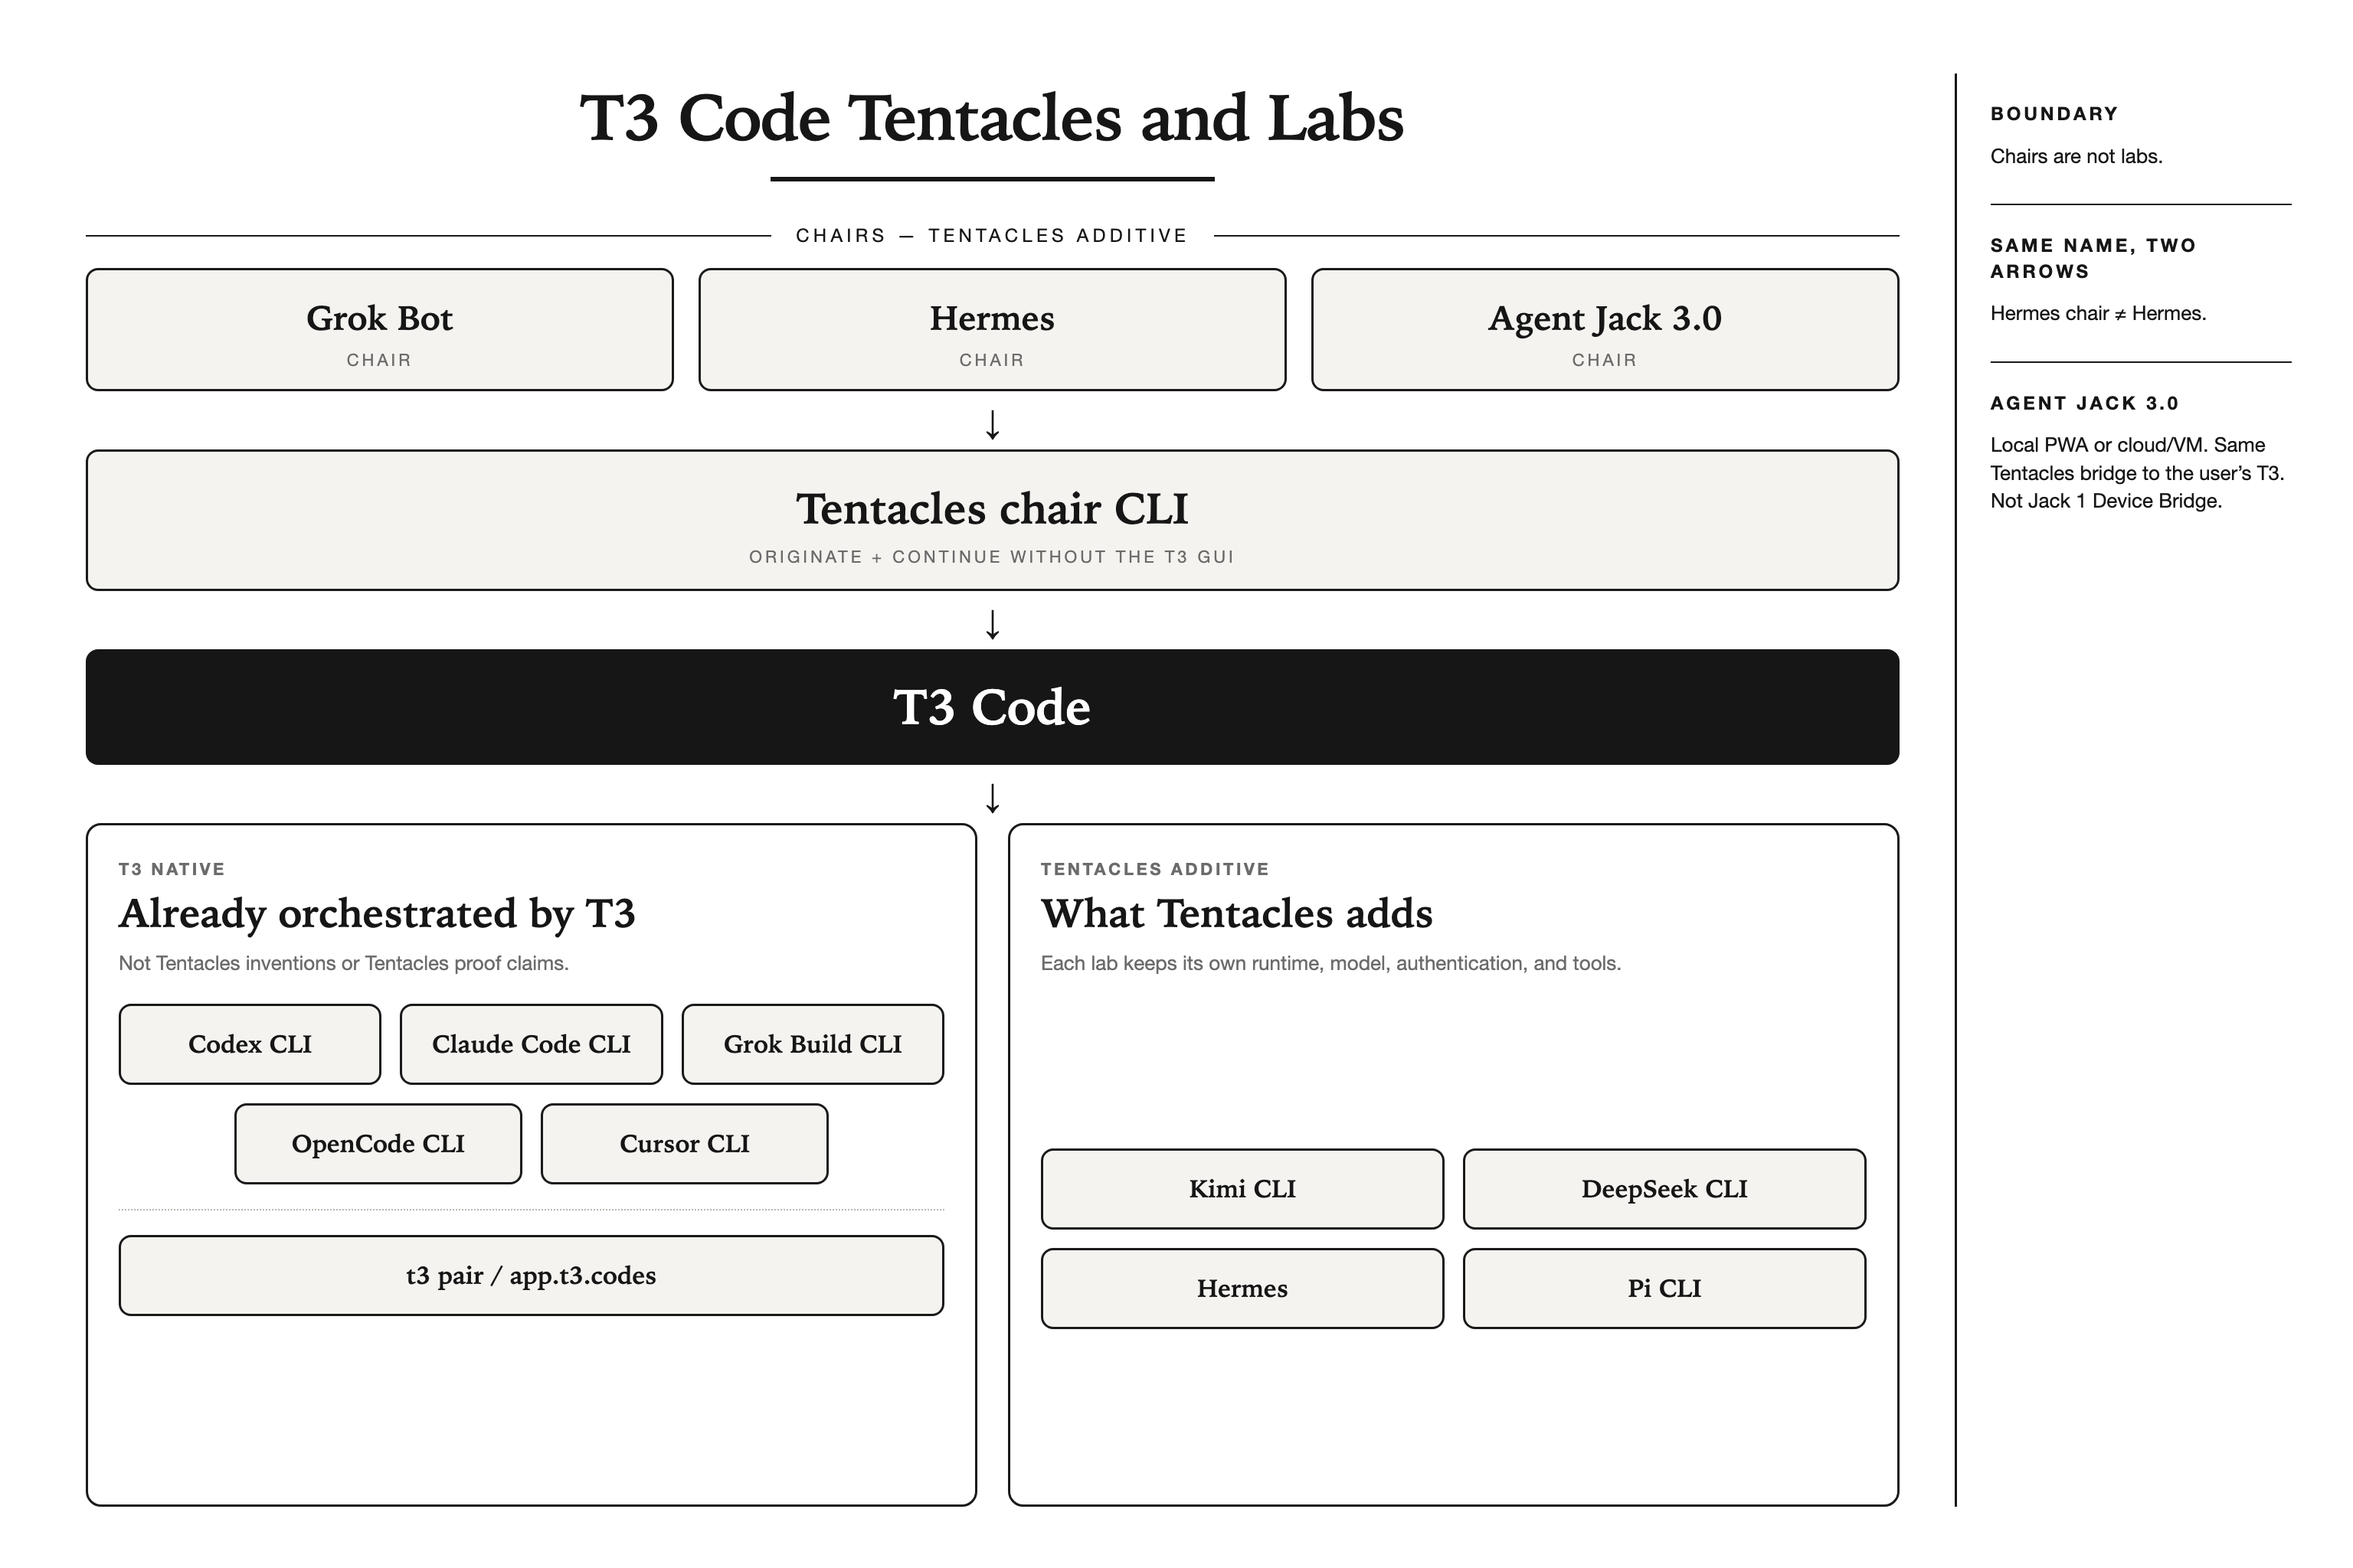
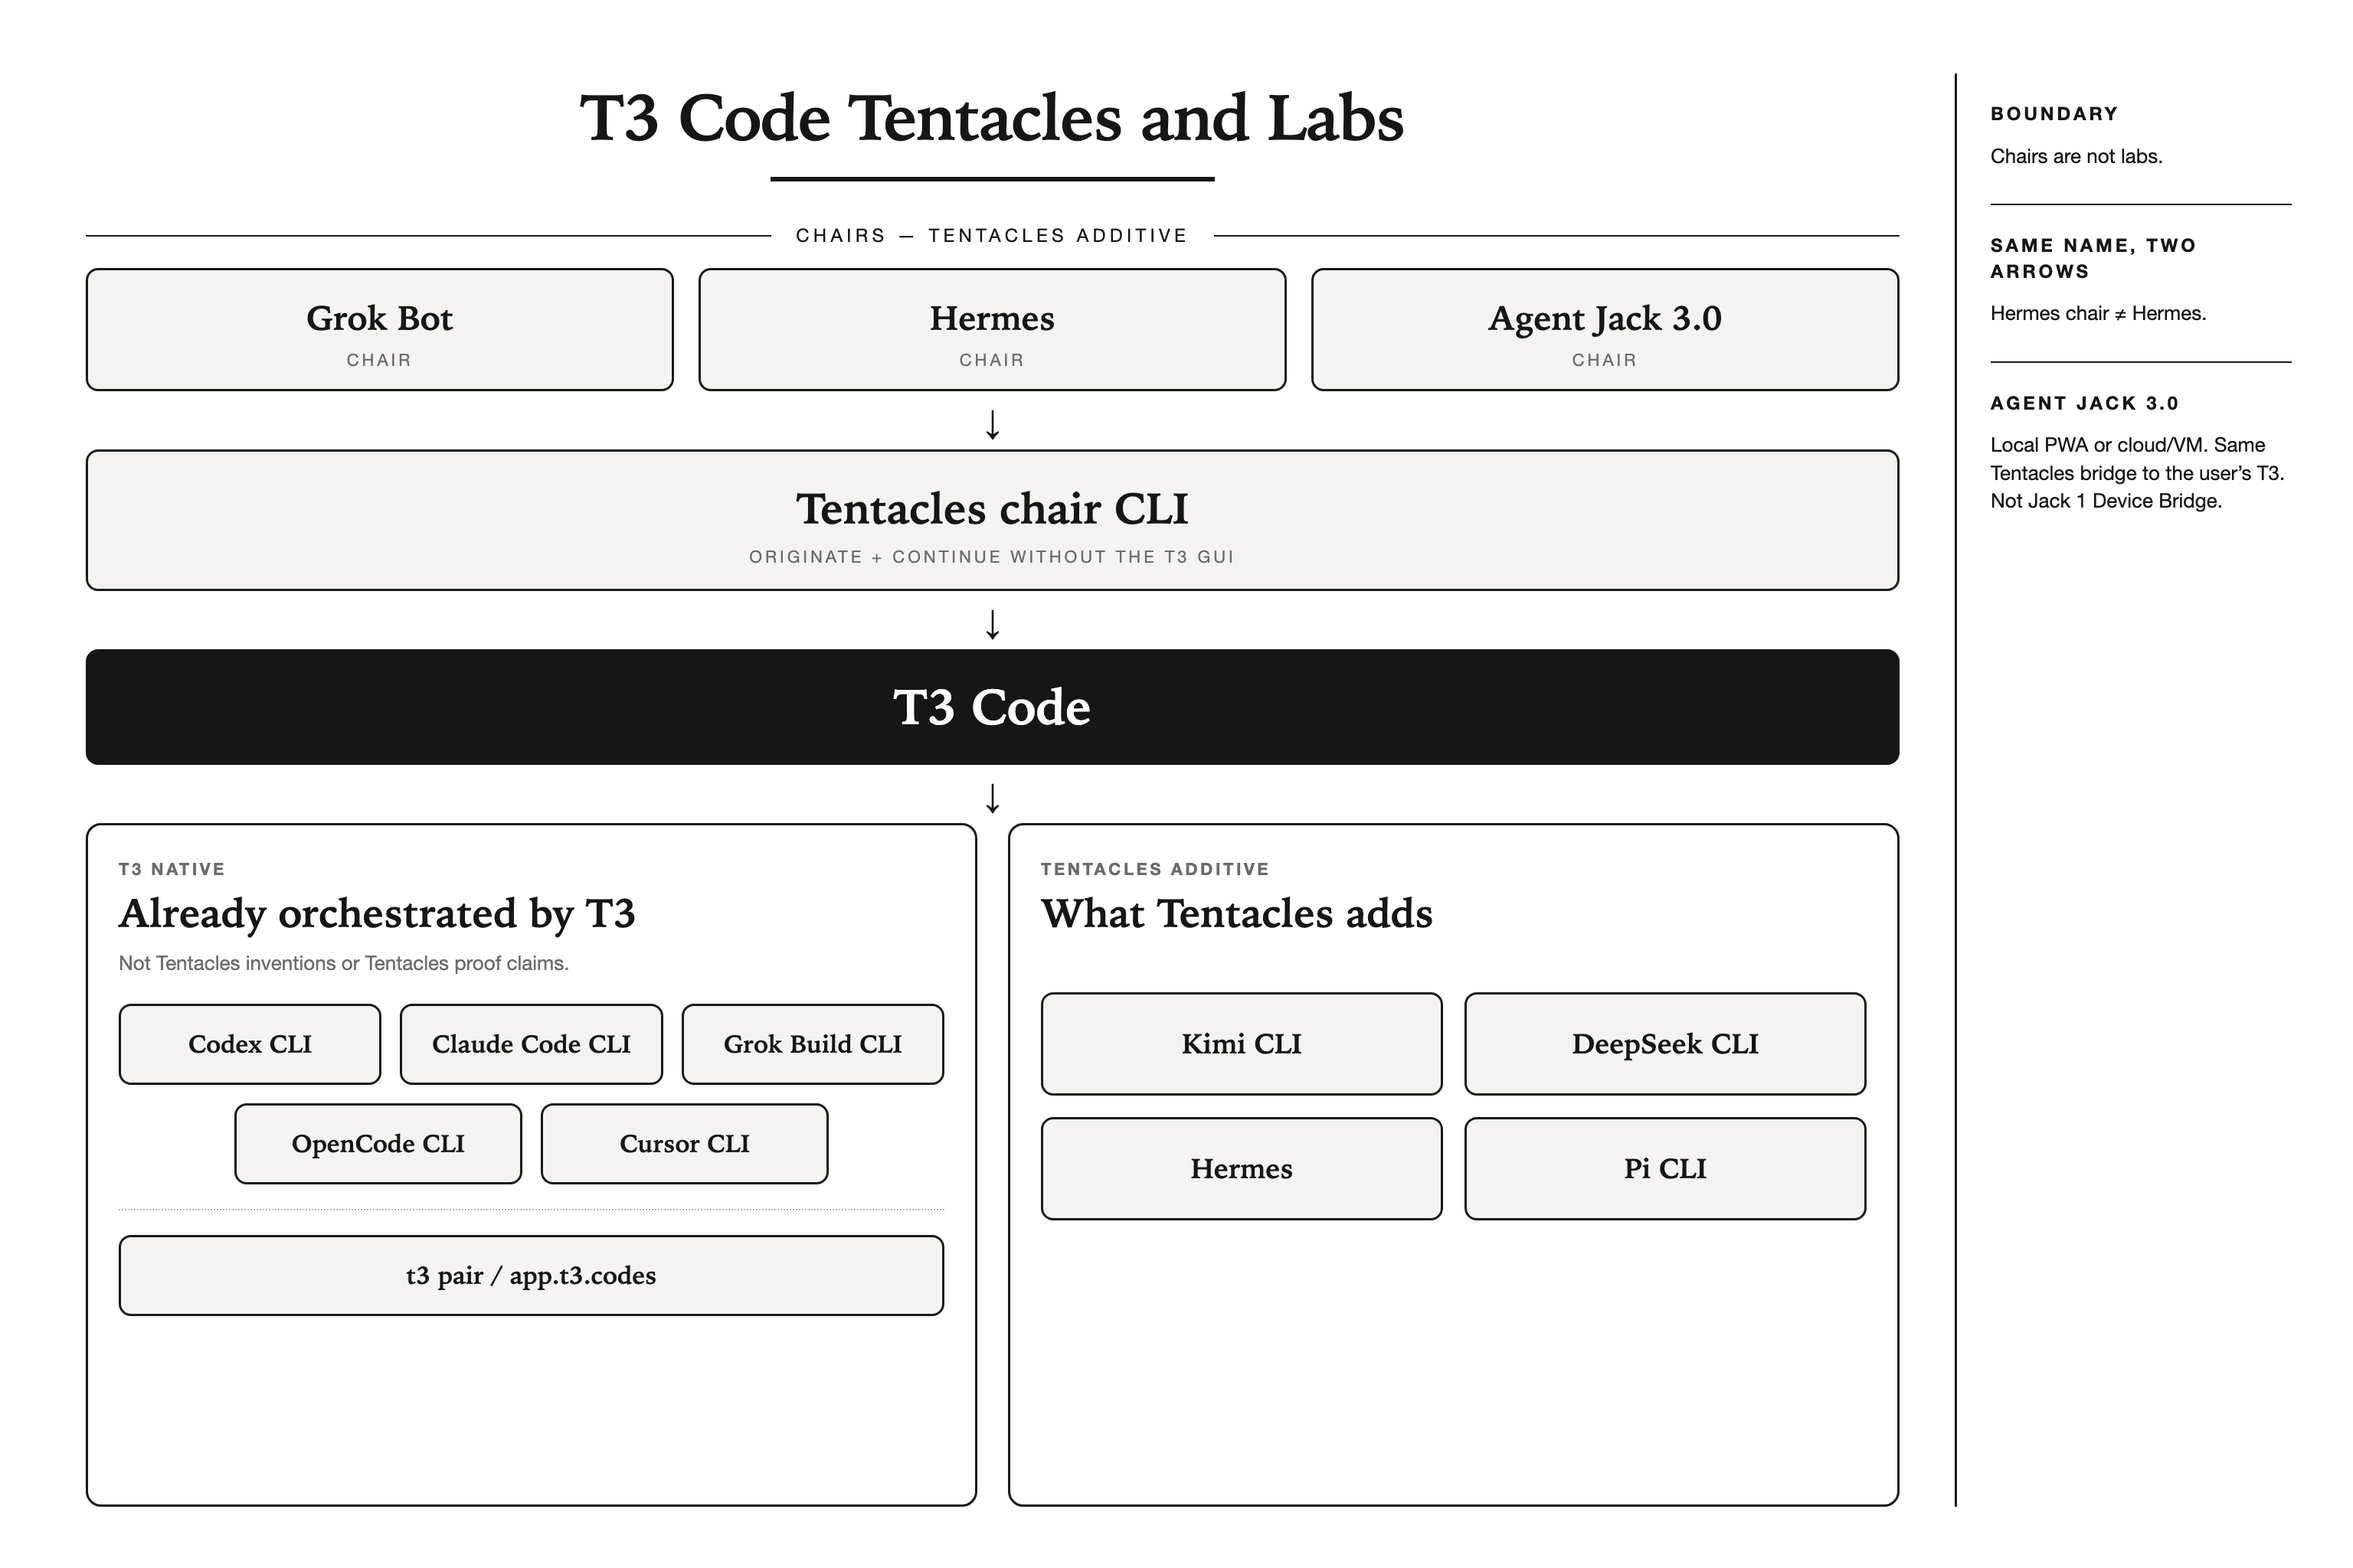
docs: redraw Tentacles poster without extra Claude
KRA-5697. Paper-ink PNG, ASCII, and mermaid now match: native Claude
Code CLI, additive Kimi CLI / DeepSeek CLI / Hermes / Pi CLI.

diff --git a/README.md b/README.md
@@ -91,7 +91,7 @@ flowchart TB
     subgraph Chairs["Chairs — Tentacles additive"]
         direction LR
         GrokBot["Grok Bot"]
-        HermesChair["Hermes chair"]
+        HermesChair["Hermes"]
         Jack["Agent Jack 3.0"]
     end
     Chairs --> ChairCLI["Tentacles chair CLI"]
@@ -112,8 +112,7 @@ Hermes chair ≠ Hermes.
 
 Tentacles-additive labs a chair may select are Kimi CLI, DeepSeek CLI, Hermes,
 and Pi CLI. Kimi CLI, DeepSeek CLI, and Claude Code CLI are independent
-products. Tentacles names those CLIs; it does not own or explain their
-settings, routing, tokens, or plans. Hermes and Pi CLI are the adapters this
+products. Tentacles names those CLIs. Hermes and Pi CLI are the adapters this
 repository installs. Claude Code is T3-native: a chair selects
 `--instance claudeAgent`. Tentacles does not ship a second Claude product.
 
@@ -173,8 +172,8 @@ Tentacles-additive rows:
 
 | Additive lab | Tentacles relationship |
 |---|---|
-| Kimi CLI | Independent lab a chair may select when doctor marks it ready. Tentacles does not own or explain its settings. |
-| DeepSeek CLI | Independent lab a chair may select when doctor marks it ready. Tentacles does not own or explain its settings. |
+| Kimi CLI | Independent lab a chair may select when doctor marks it ready |
+| DeepSeek CLI | Independent lab a chair may select when doctor marks it ready |
 | Hermes | Tentacles adapter. `tentacles install-provider`. Default originate model `openai-codex:gpt-5.6-sol`. |
 | Pi CLI | Tentacles adapter. `tentacles install-pi-provider`. Default originate model `gpt-5.6-terra`. |
 

diff --git a/CHANGELOG.md b/CHANGELOG.md
@@ -7,10 +7,9 @@ All notable changes to this project are documented here.
 ### Documentation
 
 - README names T3-native labs and Tentacles-additive labs by their CLIs.
-  The additive Hermes instance is Hermes, not Hermes lab. Claude Code is
-  T3-native `--instance claudeAgent`, not a Tentacles extra product.
-  Advertised is not proved. Kimi, DeepSeek, and Claude Code are independent;
-  Tentacles does not document their settings.
+  The paper-ink poster, ASCII, and mermaid match: native Claude Code CLI,
+  additive Kimi CLI / DeepSeek CLI / Hermes / Pi CLI. Hermes is Hermes.
+  Claude Code is T3-native `--instance claudeAgent` and is not proved.
 
 ## [0.3.0] - 2026-08-28
 
